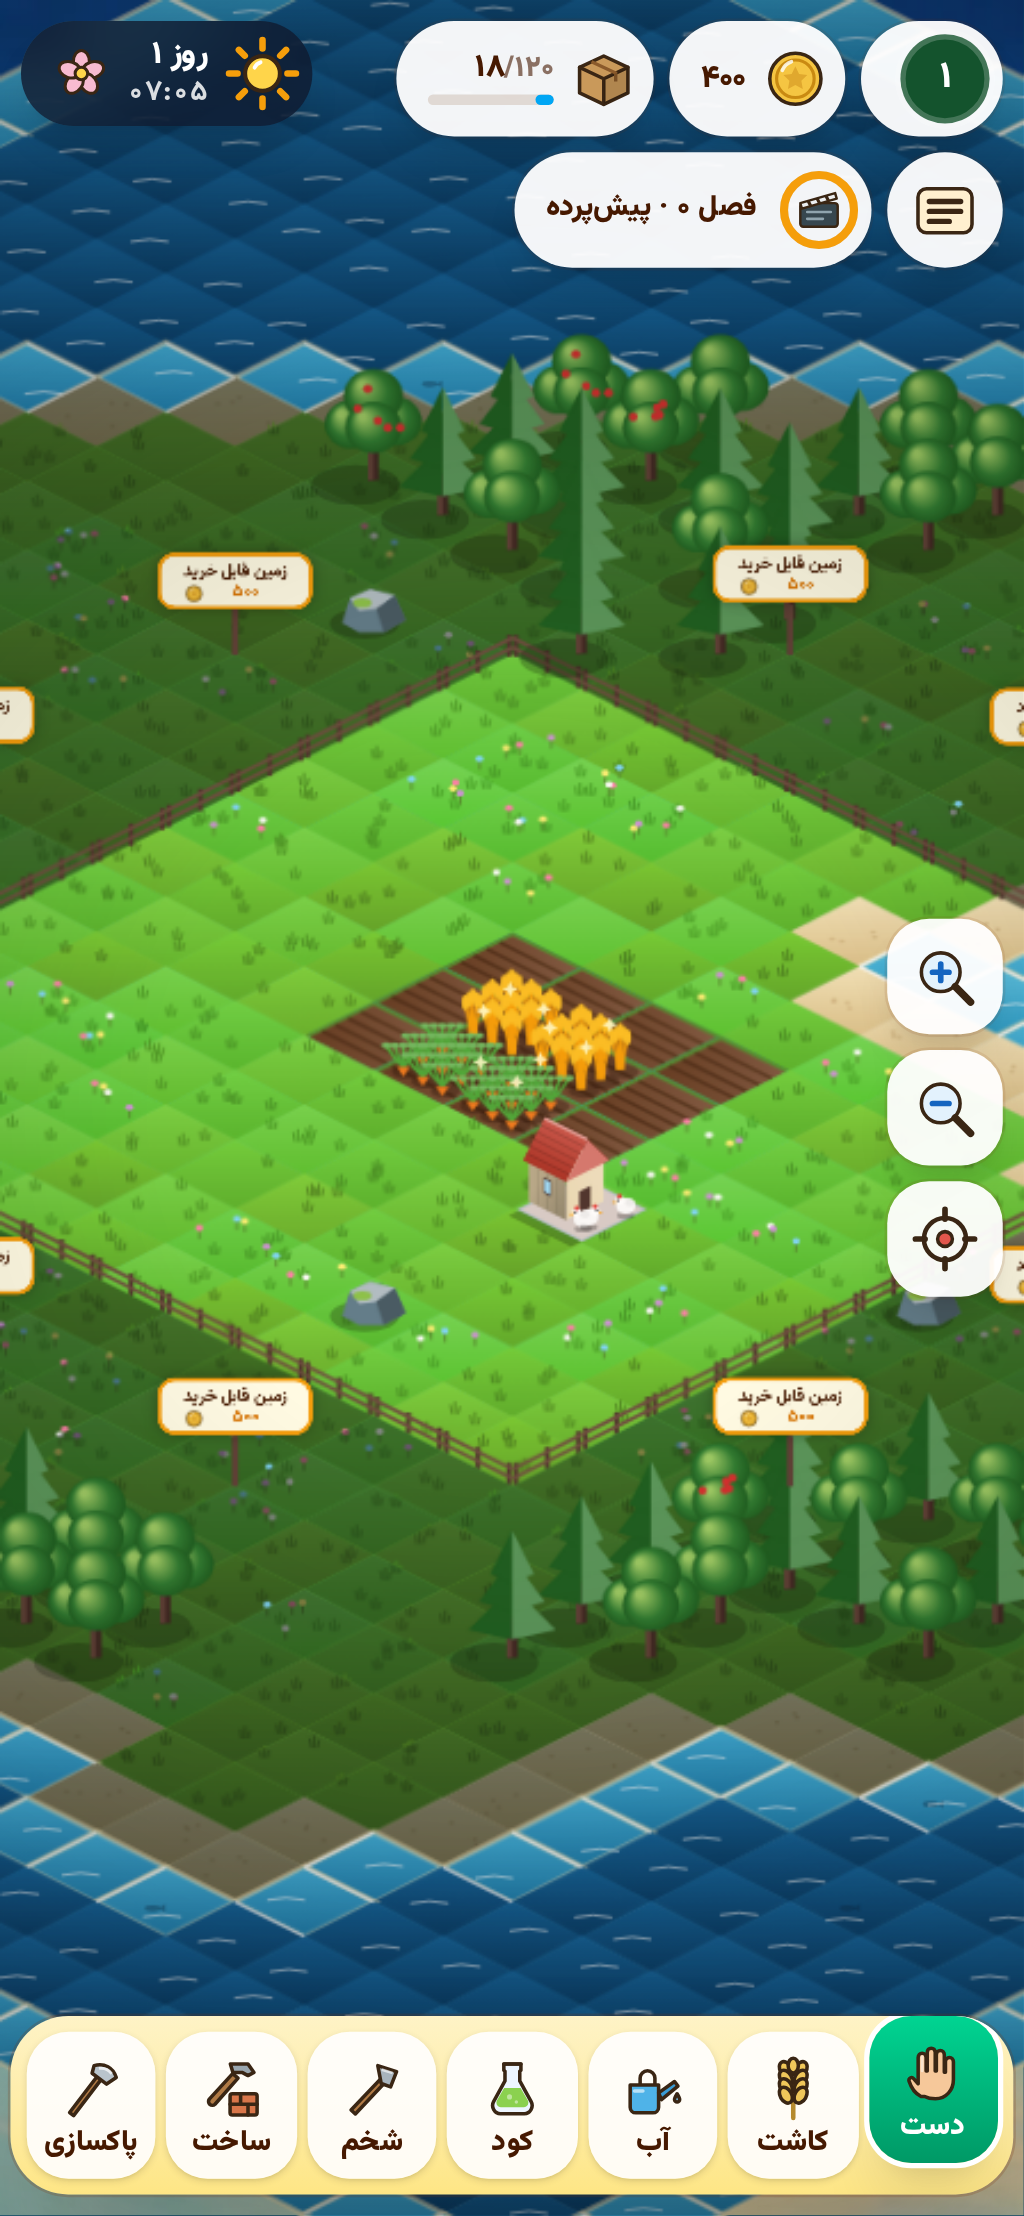
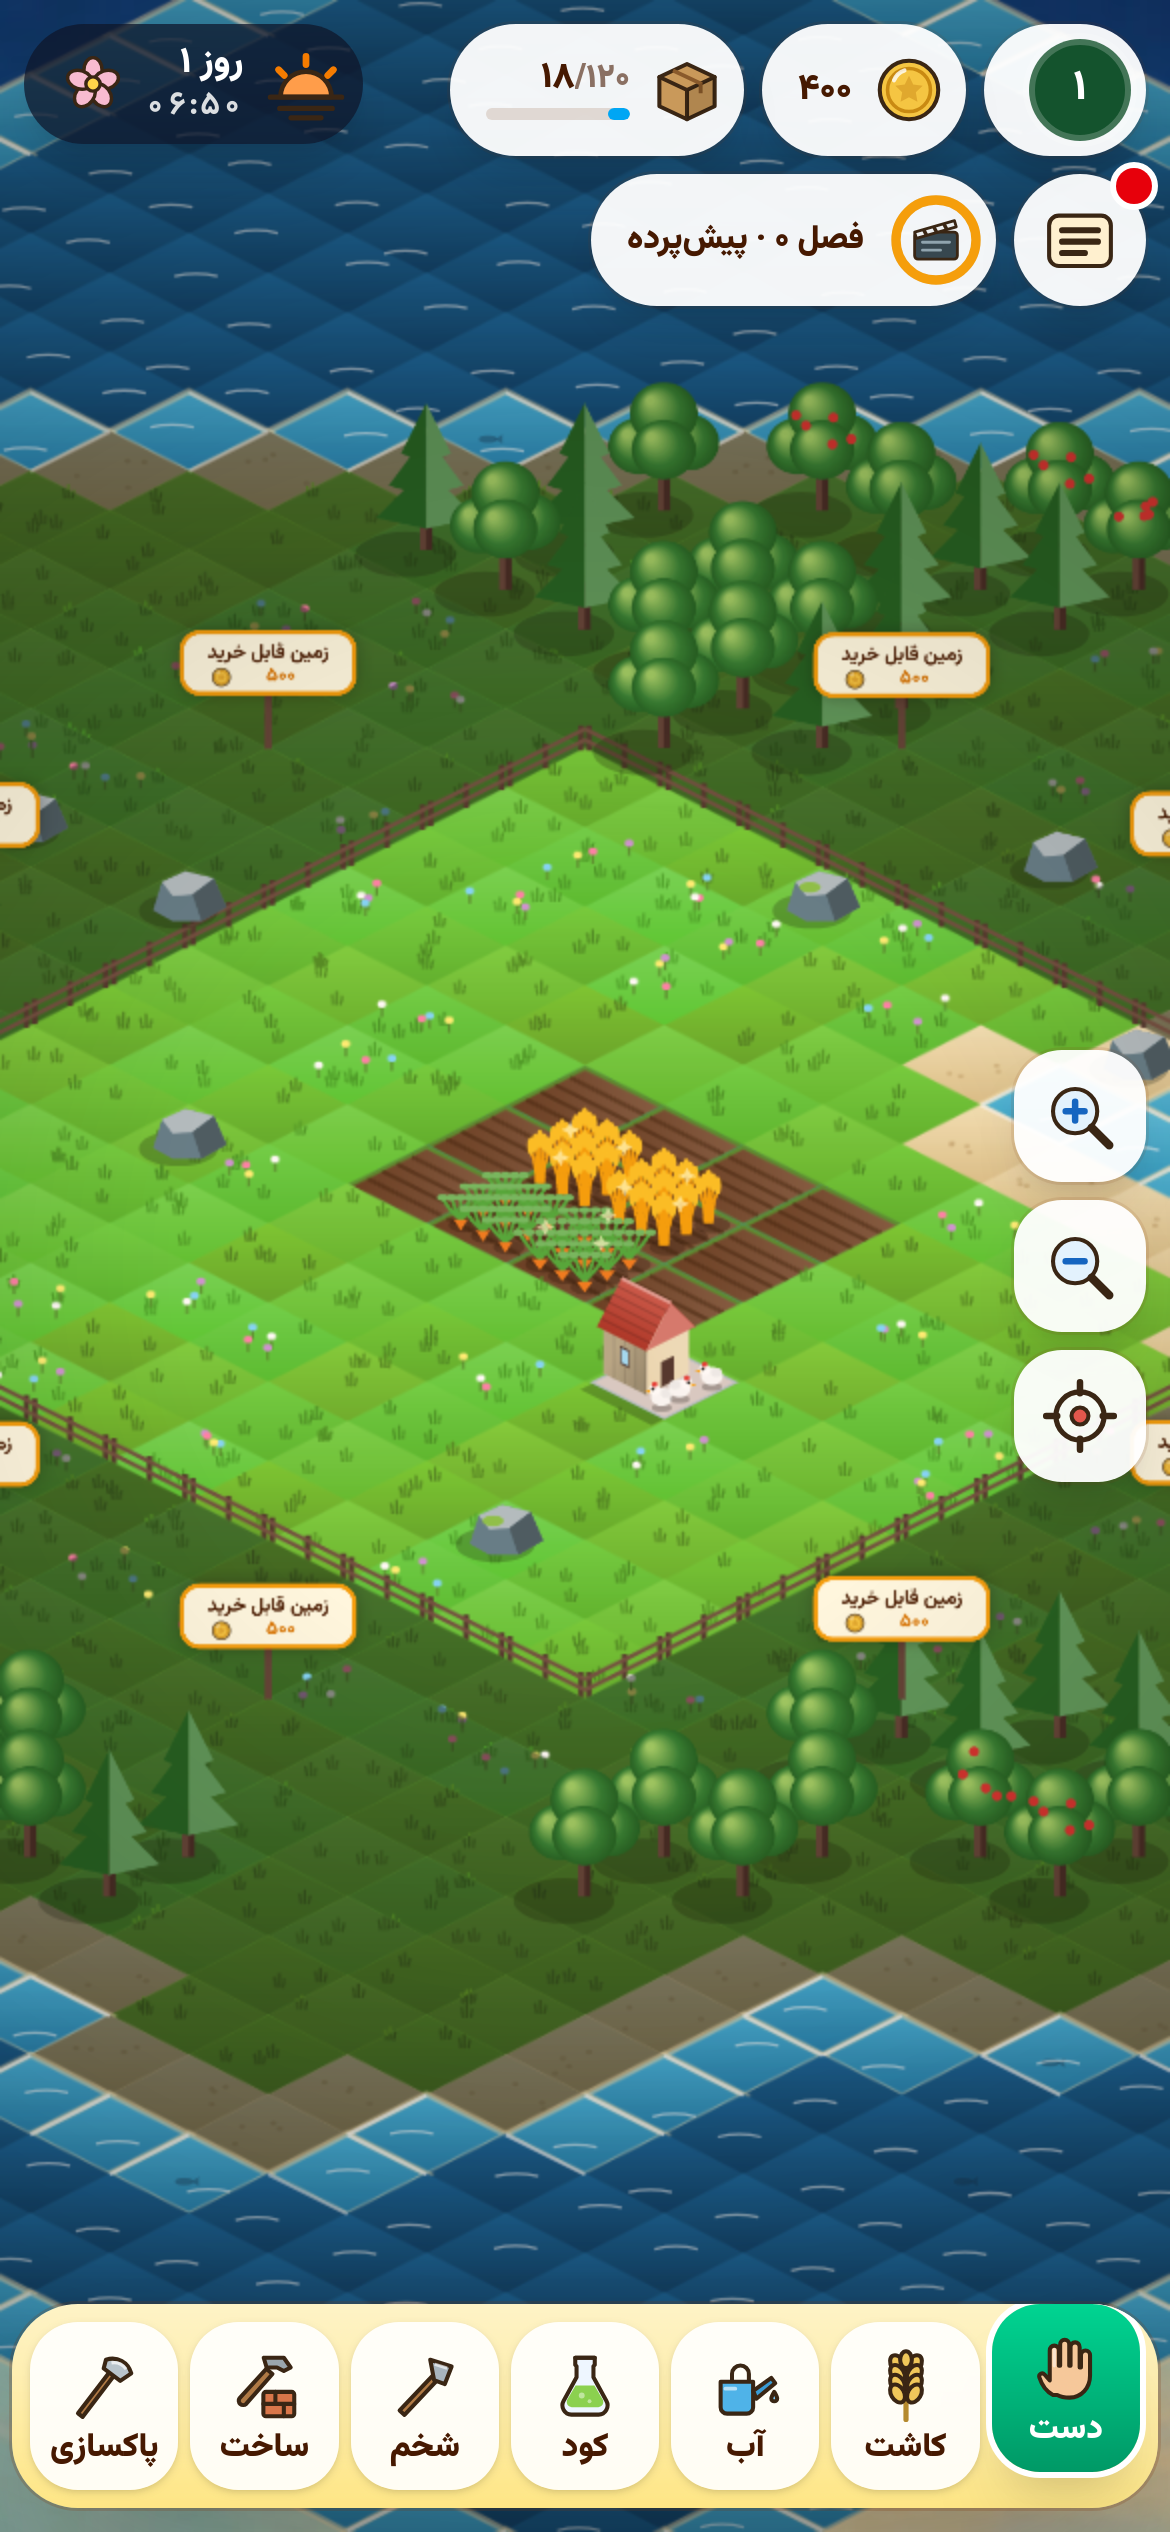
docs(roadmap): تیکِ P6.5 — Lighthouse موبایل ۹۹/۱۰۰/۱۰۰/۱۰۰؛ نقشهی راه ۵۶ از ۵۶
- 6.5 انجام شد: میانهی ۵ اجرای Lighthouse روی رانرِ گیتهاب در دو اجرای مستقل (cbbfc52 و a49d8f9) = 99/100/100/100 در برابرِ مبنای 52/93/100/100
- KPI: ردیفِ تازهی Lighthouse؛ PWA/آفلاین، TypeScript و تصاویر ۴۰۴ برآورده؛ شمارِ تستها (۳۳۳ واحد، ۳۶ سناریوی E2E) و اندازهی فایلها بهروز
- lighthouse.yml: یک اجرای گرمکنِ کنارگذاشته پیش از ۵ اجرای شمردهشده (اولین Chrome روی رانرِ سرد یکنواخت ~۴ برابر کُندتر است)
- docs/shots: اسپلش در ۳۲۰/۳۹۰ و نمای بازی از آرتیفکتِ CI؛ docs/logs/lighthouse-6-5.txt با هر دو جدول و تحلیلِ اجرای پرت
- gen-roadmap: وقتی کاری نمانده، «سه کار بعدی» پیامِ پایان را نشان میدهد

diff --git a/ROADMAP.md b/ROADMAP.md
@@ -7,10 +7,10 @@
 ## وضعیت کلی
 
 ```
-████████████████████  ۹۸٪
+████████████████████  ۱۰۰٪
 ```
 
-**۵۵ از ۵۶ آیتم انجام شده (۹۸٪)** · در دست اجرا: **۰** · آخرین بهروزرسانی: 2026-09-26 · نسخه: `0.1.0`
+**۵۶ از ۵۶ آیتم انجام شده (۱۰۰٪)** · در دست اجرا: **۰** · آخرین بهروزرسانی: 2026-09-27 · نسخه: `0.1.0`
 
 | فاز | عنوان | پیشرفت | انجام/کل |
 |:--:|---|---|:--:|
@@ -20,11 +20,11 @@
 | P3 | بازی آفلاین و فولتاچ | `████████████  ۱۰۰٪` | ۷/۷ |
 | P4 | UI / UX مخصوص موبایل برای هر صفحهنمایش | `████████████  ۱۰۰٪` | ۷/۷ |
 | P5 | رفع همهی مواردِ نمرهکاه ریویو | `████████████  ۱۰۰٪` | ۱۶/۱۶ |
-| P6 | گسترش تا ۱۰۰۰ | `██████████░░  ۸۳٪` | ۵/۶ |
+| P6 | گسترش تا ۱۰۰۰ | `████████████  ۱۰۰٪` | ۶/۶ |
 
 ### سه کار بعدی (به همین ترتیب)
 
-۱. 6.5 — بهینهسازی نهایی + پولیش بصری
+کاری باقی نمانده: هر ۵۶ آیتمِ نقشهی راه با شاهد انجام شدهاند.
 
 ## شاخصهای کلیدی (KPI)
 
@@ -33,11 +33,12 @@
 | نمرهی ریویو | ۵.۲ | ۵.۲ | **۱۰** | <img src="docs/icons/wait.svg" width="18" height="18" alt="در راه"> |
 | خطای ESLint | ۹۵ | ۰ (بلاککننده در CI با --max-warnings=0) | **۰** | <img src="docs/icons/done.svg" width="18" height="18" alt="برآورده"> |
 | خطای TypeScript | ۰ | ۰ | **۰** | <img src="docs/icons/done.svg" width="18" height="18" alt="برآورده"> |
-| تست خودکار | ۰ | ۳۲۹ واحد (Vitest؛ ۳ تای آن روی Postgresِ واقعی در CI؛ پوشش ۹۷٪ خط / ۸۸٪ شاخه) + ۳۴ سناریوی E2E × ۲ پروفایل موبایل | **≥ ۶۰ سناریو** | <img src="docs/icons/done.svg" width="18" height="18" alt="برآورده"> |
-| تصاویر ۴۰۴ | ۷ | ۰ | **۰** | <img src="docs/icons/done.svg" width="18" height="18" alt="برآورده"> |
-| پوشش PWA/آفلاین | ۰٪ | manifest: دارد / SW: دارد / outbox: دارد | **۱۰۰٪** | <img src="docs/icons/wait.svg" width="18" height="18" alt="در راه"> |
-| اندازهی Game.tsx | ۱۶۳۲ خط | Game.tsx ۱۹۷ خط؛ render.ts ← ۸ ماژول ≤ ۲۹۶؛ icons.tsx ← ۸۱ + ۴ ماژول؛ بزرگترین فایلِ src ۳۵۵ خط (نگهبان: tests/filesize.test.ts) | **≤ ۴۰۰ خط (هر فایل)** | <img src="docs/icons/done.svg" width="18" height="18" alt="برآورده"> |
+| تست خودکار | ۰ | ۳۳۳ واحد (Vitest؛ ۳ تای آن روی Postgresِ واقعی در CI؛ پوشش ۹۸٪ خط / ۸۸٪ شاخه) + ۳۶ سناریوی E2E × ۲ پروفایل موبایل | **≥ ۶۰ سناریو** | <img src="docs/icons/done.svg" width="18" height="18" alt="برآورده"> |
+| تصاویر ۴۰۴ | ۷ | ۰ (e2e/assets.spec روی پیشکشِ SW + check-assets) | **۰** | <img src="docs/icons/done.svg" width="18" height="18" alt="برآورده"> |
+| پوشش PWA/آفلاین | ۰٪ | ۱۰۰٪ — manifest (آیکونِ maskable) + SW v2 (پیشکشِ همهی داراییها، ثبت بعد از load) + outbox؛ بازگشایی و ادامهی بازی بدونِ شبکه در e2e/offline.spec | **۱۰۰٪** | <img src="docs/icons/done.svg" width="18" height="18" alt="برآورده"> |
+| اندازهی Game.tsx | ۱۶۳۲ خط | Game.tsx ۲۴۷ خط؛ render.ts ← ۸ ماژول ≤ ۲۹۶؛ icons.tsx ← ۱۰۳ + ۴ ماژول؛ بزرگترین فایلِ src ۳۵۵ خط (نگهبان: tests/filesize.test.ts) | **≤ ۴۰۰ خط (هر فایل)** | <img src="docs/icons/done.svg" width="18" height="18" alt="برآورده"> |
 | FPS روی موبایل میانی | نامعلوم | موبایلِ میانی (Pixel 7 + CPU ×۴، رندرِ نرمافزاری): ۵۸.۲ fps · عادی ۶۰.۲ و باران ۶۰.۲ در dpr ۱.۴ (پیش از P5.14: ۳۵.۴ در dpr ۰.۶ و با ×۴: ۶.۸) — کفِ CI: ۵۵ | **≥ ۵۵** | <img src="docs/icons/done.svg" width="18" height="18" alt="برآورده"> |
+| Lighthouse موبایل (کارایی / دسترسپذیری / بهترین شیوهها / SEO) | ۵۲ / ۹۳ / ۱۰۰ / ۱۰۰ | ۹۹ / ۱۰۰ / ۱۰۰ / ۱۰۰ (میانهی ۵ اجرا روی رانرِ گیتهاب، دو اجرای مستقل؛ ورکفلوی lighthouse) | **≥ ۹۵ در هر ۴ شاخص** | <img src="docs/icons/done.svg" width="18" height="18" alt="برآورده"> |
 
 ## قواعد پروژه
 
@@ -156,7 +157,7 @@
 
 **هدف فاز:** افزودن عمق و طول عمر بازی پس از رفع ایرادها.
 
-**پیشرفت:** `████████████░░  ۸۳٪` (۵/۶)
+**پیشرفت:** `██████████████  ۱۰۰٪` (۶/۶)
 
 | وضعیت | # | کار | معیار پذیرش (DoD) | شاهد | پوش |
 |:--:|:--:|---|---|---|:--:|
@@ -164,7 +165,7 @@
 | <img src="docs/icons/done.svg" width="16" height="16" alt="[x]"> | ۶.۲ | اهداف روزانه و هفتگی + نشانها | ۳ هدف روزانه با پاداش | tests/quests.test.ts (۱۶ تست: ۳ هدفِ متفاوت و قطعی برای هر تاریخ، پیشرفت = تفاضلِ آمار، دریافتِ یکباره، پاداش هدفِ درآمد را جلو نمیبرد، جایزهی روز، زنجیره و شکستنش، نشانهای ۳/۷ روزه، هفتهی ISO، بقا در نسخهگردانی، سیوِ خراب) + e2e/quests.spec.ts (منو، ۳+۱ نوار پیشرفت، دریافت و قفل)؛ نشانهای SVG دستساز؛ docs/shots/panel-p6-2-quests-320/390.png و p6-2-menu-390.png | #۲۲ |
 | <img src="docs/icons/done.svg" width="16" height="16" alt="[x]"> | ۶.۳ | چرخهی نسخهگردانی جذابتر + آمار نسلی | نسخهگردانی ≥ ۳ مزیت جدید | tests/legacy.test.ts (۸ تست عددی): ۱) کارگاه در نسل ۴ تندتر (پیش از این کندتر)، ۲) بذر −۵٪ در هر نسل تا ۲۵٪، ۳) زمینِ موروثیِ همجوار تا ۳ قطعه بدون گرانکردنِ خرید، ۴) ارثیهی ۱۰٪ سکه، ۵) دستورِ خانوادگیِ «حلوای مادربزرگ» فقط از نسل ۲ (خارج از سفارشِ نسل ۱) + شجرهنامه با کارنامهی هر نسل و sanitize؛ docs/shots/p6-3-legacy-320/390.png، p6-3-family-tree-390.png، p6-3-halva-gen1/gen2-390.png | #۲۳ |
 | <img src="docs/icons/done.svg" width="16" height="16" alt="[x]"> | ۶.۴ | لایهی داستانی نسلهای بعدی (فصلهای متغیر) | متغیرهای داستانی بین نسلها | tests/lineage.test.ts (۱۱ تست) + e2e/lineage.spec.ts: با هر تناسخ یک وارث با متغیرهای نسلِ قبل ساخته میشود — نامِ بنیانگذار و زنجیرهی نامها، سبکِ واقعیِ نسل (کشاورز/بازرگان/صنعتگر/آبادگر از تفاضلِ آمارِ همان نسل، نه کلِ عمر) و عددهایش (روز، برداشت، سفارش، تولید، دکور) که در متنِ فصلِ تازه گفته میشوند؛ آغاز بسته به نسل (وارث/نوه/نسلهای بعد)، قولِ وارث = هدفِ فصل که از لحظهی قول شمرده میشود، پایان روی تنهی گردو و پاداشِ یکباره؛ ۵ نسل × ۴ سبک بدونِ متغیرِ پرنشده/ایموجی؛ sanitize؛ پردهی نسل پشتِ پایانِ فصلِ ۱۰ صبر میکند؛ ۲ تصویرِ تازه (story_heir، story_lineage)؛ docs/shots/p6-4-heir-name-320/390، p6-4-lineage-open/elder-320/390، p6-4-journal-390، p6-4-lineage-end-390.png | #۲۴ |
-| <img src="docs/icons/todo.svg" width="16" height="16" alt="[ ]"> | ۶.۵ | بهینهسازی نهایی + پولیش بصری | Lighthouse ≥ ۹۵ در همهی شاخصها | — | — |
+| <img src="docs/icons/done.svg" width="16" height="16" alt="[x]"> | ۶.۵ | بهینهسازی نهایی + پولیش بصری | Lighthouse ≥ ۹۵ در همهی شاخصها | Lighthouse موبایل روی رانرِ گیتهاب (ورکفلوی تازهی lighthouse.yml، Lighthouse 12.8.2، میانهی ۵ اجرا، دروازهی ≥ ۹۵): performance ۹۹ · accessibility ۱۰۰ · best-practices ۱۰۰ · seo ۱۰۰ در دو اجرای مستقل (cbbfc52 و a49d8f9؛ FCP ۰٫۸s، LCP ۲٫۱ تا ۲٫۳s، TBT ۱۵ تا ۲۶ms، CLS ۰) در برابرِ مبنای ۵۲/۹۳/۱۰۰/۱۰۰ (TBT ۲۴۳۰ms، LCP ۴٫۹s)؛ UIِ بازی بعد از «آغاز» سوار میشود و Sheet، پردههای داستان و حلقهی رندر تنبل و در زمانِ بیکاری پیشواکشی میشوند؛ کارتِ اسپلش بالا-لنگر است (CLSِ تجزیهی نیمهکاره ۰٫۰۷ تا ۰٫۱۷ ← ۰)؛ فونتهای زیرمجموعه (~۲۷KB) و پیش از آغاز فقط Bold و Black؛ لوگوی WebPِ بُرشخورده (۲۳KB)؛ faNum بیICU (همارزِ ICU روی ۲۰هزار مقدار)؛ کشِ پایدارِ SVG؛ قفلِ زوم برداشته و برچسبِ HUD درست شد؛ SW v2 بعد از load؛ دروازهی CI با pipefail و اجرای گرمکن — e2e/splash.spec.ts (۳۲۰ و ۳۹۰: CLS < ۰٫۰۱، لوگو، دکمه ≥ ۴۴px، فقط دو فونت)؛ شاهد: docs/logs/lighthouse-6-5.txt، docs/shots/p6-5-splash-320.png و p6-5-splash-390.png | #۲۸ |
 | <img src="docs/icons/done.svg" width="16" height="16" alt="[x]"> | ۶.۶ | بلندکردن FPS روی دستگاههای ضعیف: کش اسپرایت + حلقهی رندر زمانبندیشده | ۵۵+ FPS در پروفایل موبایل میانی | آزمونِ تازهی «پروفایلِ موبایلِ میانی» در e2e/perf.spec.ts (Pixel 7 + کندکردنِ CPU ×۴ با CDP، تعریفِ Lighthouse): ۵۸.۲/۵۹.۵ fps در dpr ۰.۶۰ (پیش از این ۶.۸)؛ حلقهی زمانبندیشده: رزولوشن در vsync بالا میرود (قبلاً پس از شروعِ کند برای همیشه ۰.۶ میماند)، کندیِ شدید یکجا به تخمینِ dpr² میپرد، سقفِ پسماند نوسان را میبندد، شروع از ≤ ۱.۵، فریمِ بازسازیِ کش شمرده نمیشود و پشتِ پردهی داستان رندر نمیشود — tests/runtime.test.ts (۵ تست)؛ کارِ رشتهی اصلی در هر فریم در dpr ۰.۶ = ۳.۰۷ms (ردیابیِ کروم)؛ icons.tsx ۴۹۴ ← ۸۱ خط + src/game/art؛ tests/filesize.test.ts: هیچ فایلِ src بیش از ۴۰۰ خط نیست (بیشینه ۳۵۵)؛ رفعِ نگهبانِ دوبارهضربه که کلیکِ دومِ دو ضربهی سریع روی دو دکمه را میخورد | #۲۵ |
 
 ---
@@ -197,6 +198,9 @@
 | ۲۲ | `b549739` | 2026-09-26 | feat(P6.2): اهداف روزانه و هفتگی + زنجیره و نشانهای SVG |
 | ۲۳ | `a592b4d` | 2026-09-26 | feat(P6.3): نسخهگردانیِ جذابتر — ۵ مزیتِ موروثیِ تازه + شجرهنامهی نسلها |
 | ۲۴ | `599aef1` | 2026-09-26 | feat(P6.4): فصلهای نسل — داستان با متغیرهای نسلِ قبل ادامه دارد |
+| ۲۵ | `1615add` | 2026-09-26 | perf(P5.14+P6.6): کشِ زمین و اسپرایت و حلقهی رندرِ زمانبندیشده — ۶۰ فریم حتی با رندرِ نرمافزاری |
+| ۲۶ | `cbbfc52` | 2026-09-27 | perf(P6.5): بارگذاریِ اولِ سبک و پایدار — اسپلشِ ایستا، فونتِ زیرمجموعه، عددِ فارسیِ بیICU و Lighthouse در CI |
+| ۲۷ | `a49d8f9` | 2026-09-27 | test(P6.5): تستِ اسپلش در ۳۲۰/۳۹۰، دروازهی واقعیِ Lighthouse و لاگِ سنجش |
 
 ---
 
